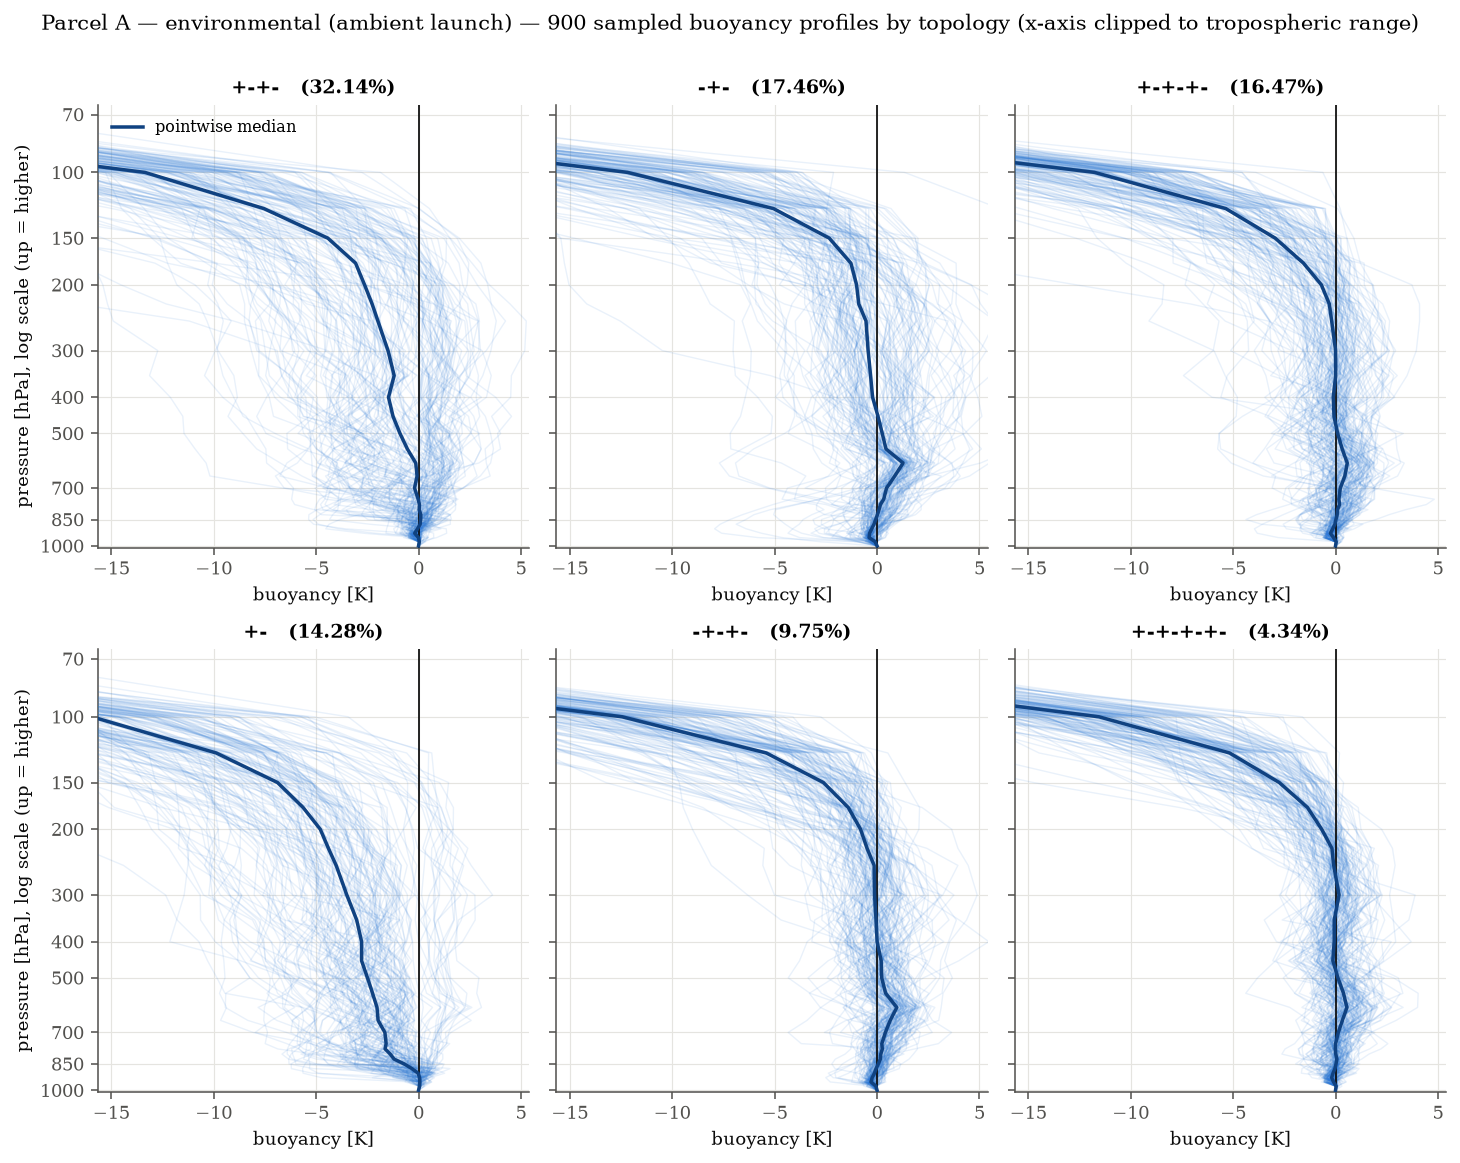
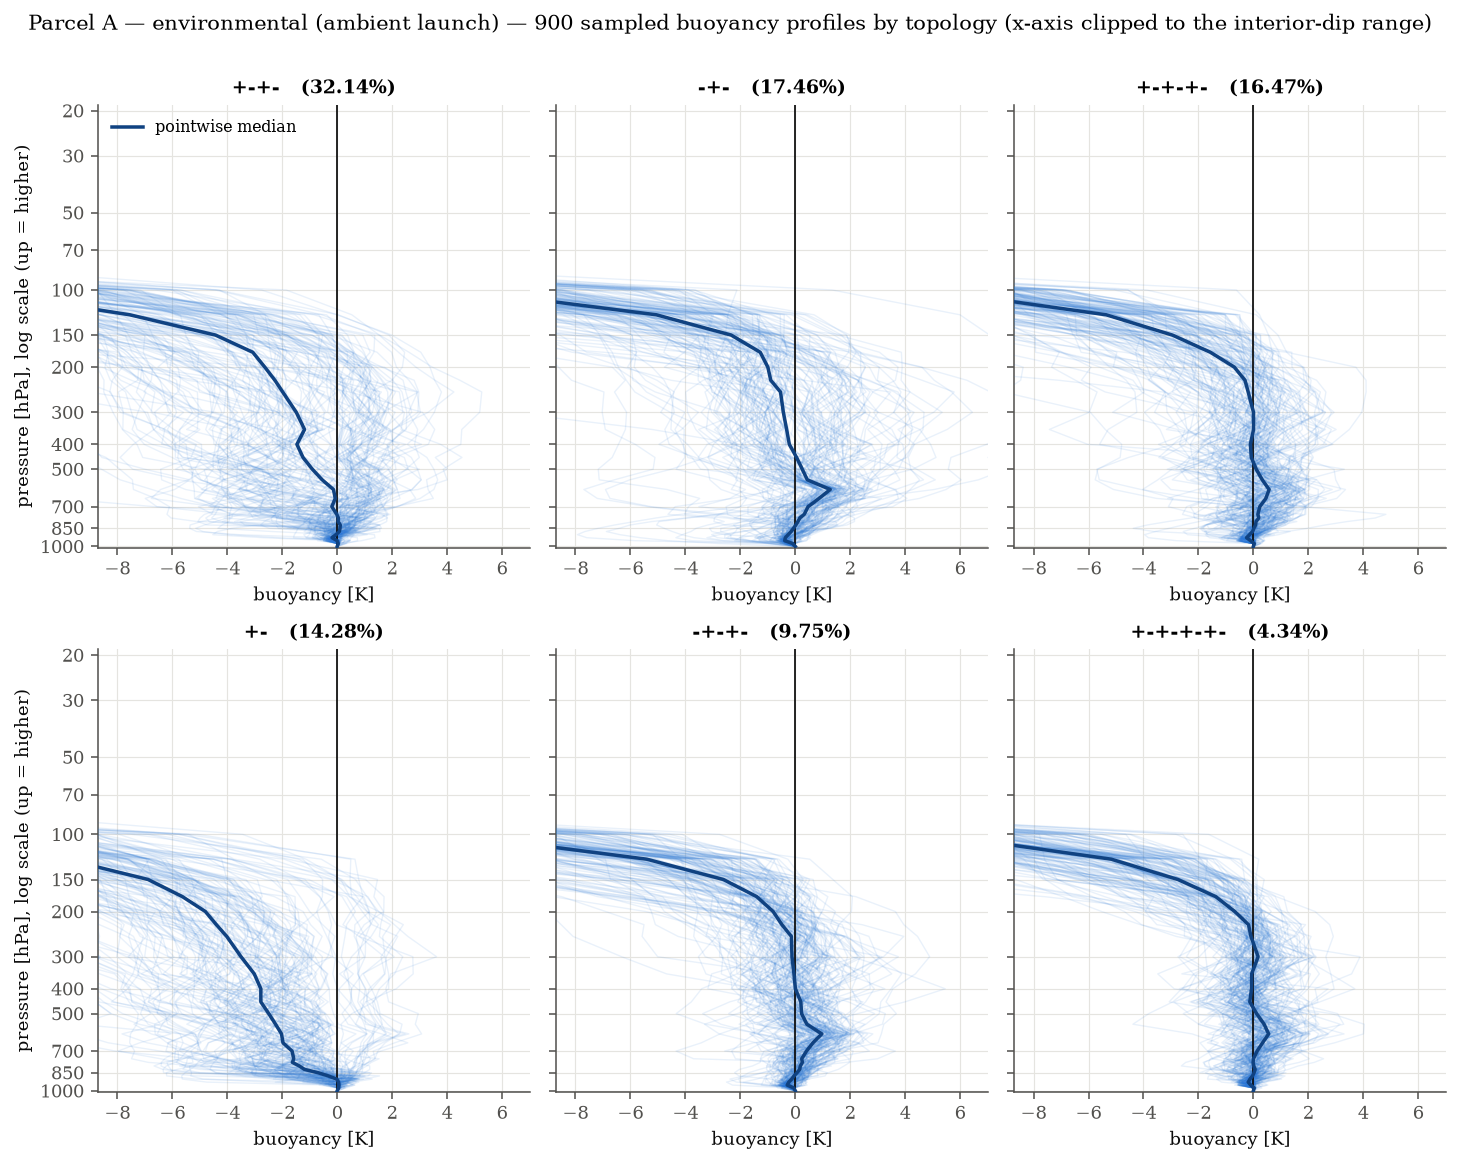
Extend topology-chain ceiling to 20 hPa; interior-dip axis rule
Highest observed buoyancy crossing across all 1.52M parcel evaluations
is 49.6 hPa (saturated core), so retaining levels with P > 10 hPa (top
20 hPa) leaves a 2.5x pressure buffer: zero clipped topologies remain,
21/569k parcel-A columns fail the entropy solve aloft and are flagged.
Buoyancy x-ranges now come from the deepest interior dip (most negative
value before a curve's last positive level) with 10% margin, so the
terminal stratospheric plunge no longer compresses the plots. Figures
and the Sounding Scope template/payload regenerated accordingly.

Generated-with: Claude Fable 5

diff --git a/era5_analysis/sounding_scope_template.html b/era5_analysis/sounding_scope_template.html
@@ -168,7 +168,7 @@ function ctx2(id){
   const cv = document.getElementById(id);
   return [cv, cv.getContext("2d")];
 }
-const yLnTop = Math.log(66), yLnBot = Math.log(1010);
+const yLnTop = Math.log(19), yLnBot = Math.log(1010);
 function yOf(p, h, pad){ return pad + (Math.log(p)-yLnTop)/(yLnBot-yLnTop)*(h-2*pad); }
 
 // ---------- scope ----------
@@ -182,7 +182,7 @@ function drawScope(){
   const Y = p => padT + (Math.log(p)-yLnTop)/(yLnBot-yLnTop)*(H-padT-padB);
   g.font = "22px ui-monospace, Menlo, monospace";
   g.strokeStyle = cvar("--grid"); g.fillStyle = cvar("--ink2"); g.lineWidth = 1.6;
-  for (const p of [1000,850,700,500,400,300,200,150,100,70]){
+  for (const p of [1000,850,700,500,400,300,200,150,100,70,50,30,20]){
     const y = Y(p);
     g.beginPath(); g.moveTo(padL,y); g.lineTo(W-padR,y); g.stroke();
     g.textAlign="right"; g.textBaseline="middle"; g.fillText(String(p), padL-10, y);

diff --git a/era5_analysis/plot_curves.py b/era5_analysis/plot_curves.py
@@ -12,7 +12,6 @@ import matplotlib.pyplot as plt
 import numpy as np
 
 
-
 BLUE = "#2a78d6"
 DBLUE = "#104281"
 INK = "#0b0b0b"
@@ -31,7 +30,7 @@ plt.rcParams.update({
 
 z = np.load(f"{SCRATCH}/topology_curves.npz")
 P = z["P"]
-YT = [1000, 850, 700, 500, 400, 300, 200, 150, 100, 70]
+YT = [1000, 850, 700, 500, 400, 300, 200, 150, 100, 70, 50, 30, 20]
 
 groups = {}
 for k in z.files:
@@ -50,13 +49,23 @@ for pname, items in groups.items():
     nrow = int(np.ceil(len(items) / ncol))
     fig, axs = plt.subplots(nrow, ncol, figsize=(3.5 * ncol, 4.1 * nrow),
                             sharey=True, squeeze=False)
-    # x-limits from the troposphere below ~125 hPa, where the topology lives
-    # (the stratospheric plunge to -40 K would squash the structure; curves
-    # simply exit the frame near the top)
-    sel = P >= 125
-    allb = np.concatenate([c[:, sel].ravel() for _, _, c in items])
-    lo, hi = np.nanpercentile(allb, [0.5, 99.5])
-    pad = 0.10 * (hi - lo)
+    # x lower limit: most negative interior dip (before the curve's last
+    # positive level); the terminal stratospheric plunge never returns to
+    # positive and should not set the range. 10% margin.
+    lo = 0.0
+    hi = 0.0
+    for _, _, curves_ in items:
+        for c in curves_:
+            fin = np.isfinite(c)
+            pos = np.where(fin & (c > 0))[0]
+            if len(pos):
+                lo = min(lo, np.nanmin(c[: pos[-1] + 1]))
+            hi = max(hi, np.nanmax(c[fin]) if fin.any() else 0.0)
+    hi = min(hi, np.nanpercentile(
+        np.concatenate([c.ravel() for _, _, c in items]), 99.95))
+    lo *= 1.1
+    hi *= 1.05
+    pad = 0.0
     for ax, (share, topo, curves) in zip(axs.flat, items):
         for c in curves:
             ax.plot(c, P, color=BLUE, alpha=0.10, lw=0.7, zorder=3)
@@ -64,7 +73,7 @@ for pname, items in groups.items():
                 label="pointwise median")
         ax.axvline(0, color=INK, lw=0.9, zorder=4)
         ax.set_yscale("log")
-        ax.set_ylim(1010, 66)
+        ax.set_ylim(1010, 19)
         ax.set_yticks(YT)
         ax.set_yticklabels([str(t) for t in YT])
         ax.minorticks_off()
@@ -77,7 +86,7 @@ for pname, items in groups.items():
         ax.set_visible(False)
     axs.flat[0].legend(loc="upper left", frameon=False, fontsize=8)
     fig.suptitle(f"{TITLES[pname]} — {sum(len(c) for _, _, c in items)} sampled buoyancy profiles by topology"
-             " (x-axis clipped to tropospheric range)",
+             " (x-axis clipped to the interior-dip range)",
                  fontsize=11, y=1.005)
     fig.tight_layout()
     fig.savefig(f"{SCRATCH}/curves_parcel_{pname}.png", dpi=140)

diff --git a/era5_analysis/prep_artifact_data.py b/era5_analysis/prep_artifact_data.py
@@ -10,7 +10,6 @@ import sys
 
 import numpy as np
 
-
 sys.path.insert(0, SCRATCH)
 sys.path.insert(0, _SRC)
 
@@ -134,13 +133,22 @@ for pname in "ABC":
     mappts[f"c{pname}"] = [int(cls(pname, i)) for i in msel]
 
 # per-parcel x-limits for the scope (tropospheric percentiles)
+# x-limits: lower bound = the most negative any curve goes BEFORE its last
+# positive level (interior dips only; the terminal stratospheric plunge never
+# returns to positive and should not set the range), with a 10% margin.
 xlims = {}
 for pname in "ABC":
     arr = np.array([c for c in curves[pname] if len(c)])
-    sel = P >= 125
-    lo, hi = np.percentile(arr[:, sel], [0.5, 99.5])
-    pad = 0.1 * (hi - lo)
-    xlims[pname] = [round(float(lo - pad), 1), round(float(hi + pad), 1)]
+    lo = 0.0
+    for c in arr:
+        pos = np.where(c > 0)[0]
+        if len(pos) == 0:
+            continue
+        m = c[: pos[-1] + 1].min()
+        if m < lo:
+            lo = m
+    hi = float(np.percentile(arr, 99.9))
+    xlims[pname] = [round(float(lo * 1.1), 1), round(hi * 1.05 + 0.5, 1)]
 
 payload = {
     "P": [float(x) for x in P],

diff --git a/era5_analysis/scan_final.py b/era5_analysis/scan_final.py
@@ -30,8 +30,9 @@ from numba import njit, prange
 from tcpyPI import constants, utilities
 from tcpyPI.pi import solve_temperature_from_entropy
 
-
-PTOP = 50.0
+PTOP = 10.0  # retain levels with P > 10 hPa -> top 20 hPa; highest observed
+# buoyancy crossing in the 569k-column sample is 49.6 hPa (saturated core
+# parcel), so the retained top sits a 2.5x pressure buffer below it
 RD = constants.RD
 EPS = constants.EPS
 CKCD = 0.9

diff --git a/era5_analysis/gen_curves.py b/era5_analysis/gen_curves.py
@@ -9,7 +9,6 @@ import sys
 
 import numpy as np
 
-
 sys.path.insert(0, SCRATCH)
 sys.path.insert(0, _SRC)
 

diff --git a/era5_analysis/README.md b/era5_analysis/README.md
@@ -67,11 +67,19 @@ and `pi_conv.py` cross-checks).
   max-work fails on 0; first-crossing and lifted-ballistic conventions fail
   ~20x more often than legacy. Where PI matters (SST >= 26), top vs max
   agree to p99 = 0.53 m/s.
-- ptop clipping: the 1.24% of `+`-topology core parcels all cross between
-  70 and 53 hPa (median 68.6) when the column is extended to 20 hPa — the
-  data exists (ERA5 reaches 1 hPa); tcpyPI's ptop=50 retention cuts at
-  70 hPa. The entropy solver's `ENEW > P-1` guard prevents extension beyond
-  ~10-20 hPa without modification.
+- Column ceiling: the topology chain (`scan_final.py` onward) retains
+  levels down to 20 hPa (ptop=10), a 2.5x pressure buffer below the highest
+  buoyancy crossing observed anywhere in the sample (49.6 hPa, saturated
+  core parcel; parcel B max 66.8, parcel A max 87.5). With that ceiling no
+  parcel is clipped (zero `+`-ending topologies); 21 of 569,478 parcel-A
+  columns fail the entropy solve in the 30-20 hPa range and are flagged.
+  tcpyPI's own ptop=50 convention (used by the pi()/CAPE scans above)
+  truncates at 70 hPa and clips 1.24% of TC-relevant core parcels, whose
+  true crossings sit at median 68.6 hPa. The solver's `ENEW > P-1` guard
+  prevents extension beyond ~10-20 hPa without modification. Buoyancy-plot
+  x-ranges are set by the deepest interior dip (the most negative value a
+  curve reaches before its last positive level) plus 10% — the terminal
+  stratospheric plunge never sets the range.
 - Strict from-rest ballistic CAPE is degenerate for surface-launched
   environmental parcels (b(launch) = 0 by construction and surface CIN or
   neutral layering is universal); the lifted-to-LFC variant is the
